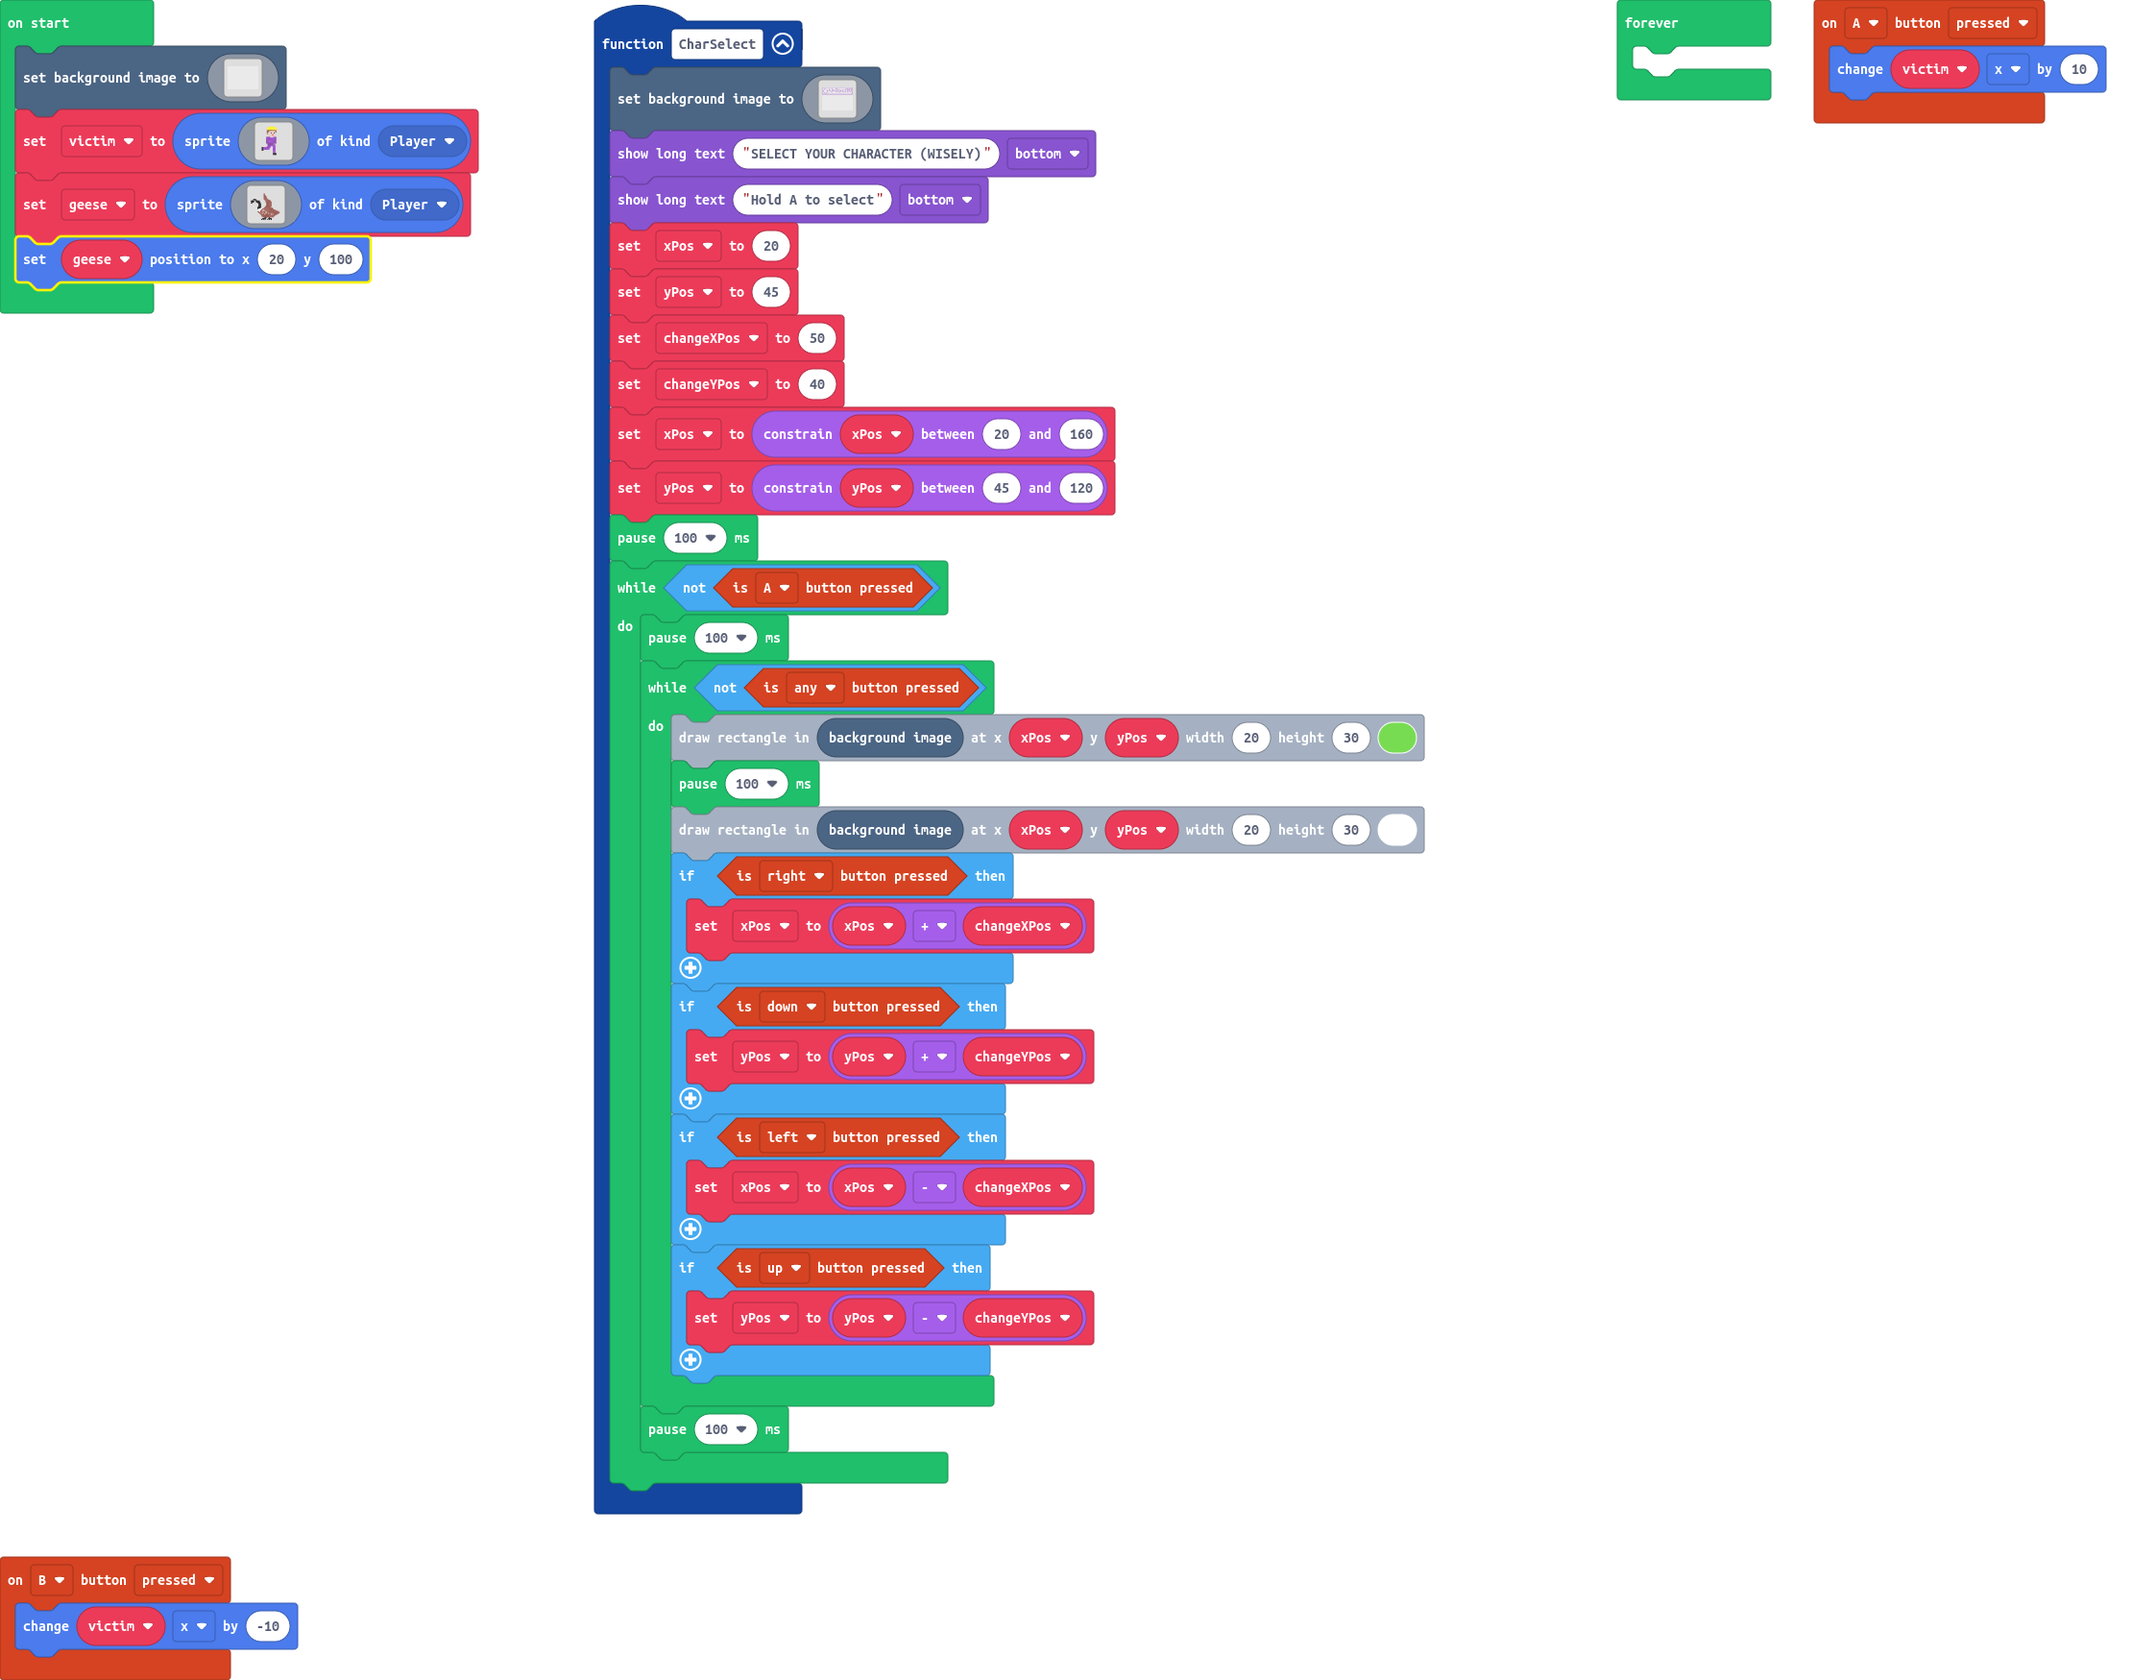
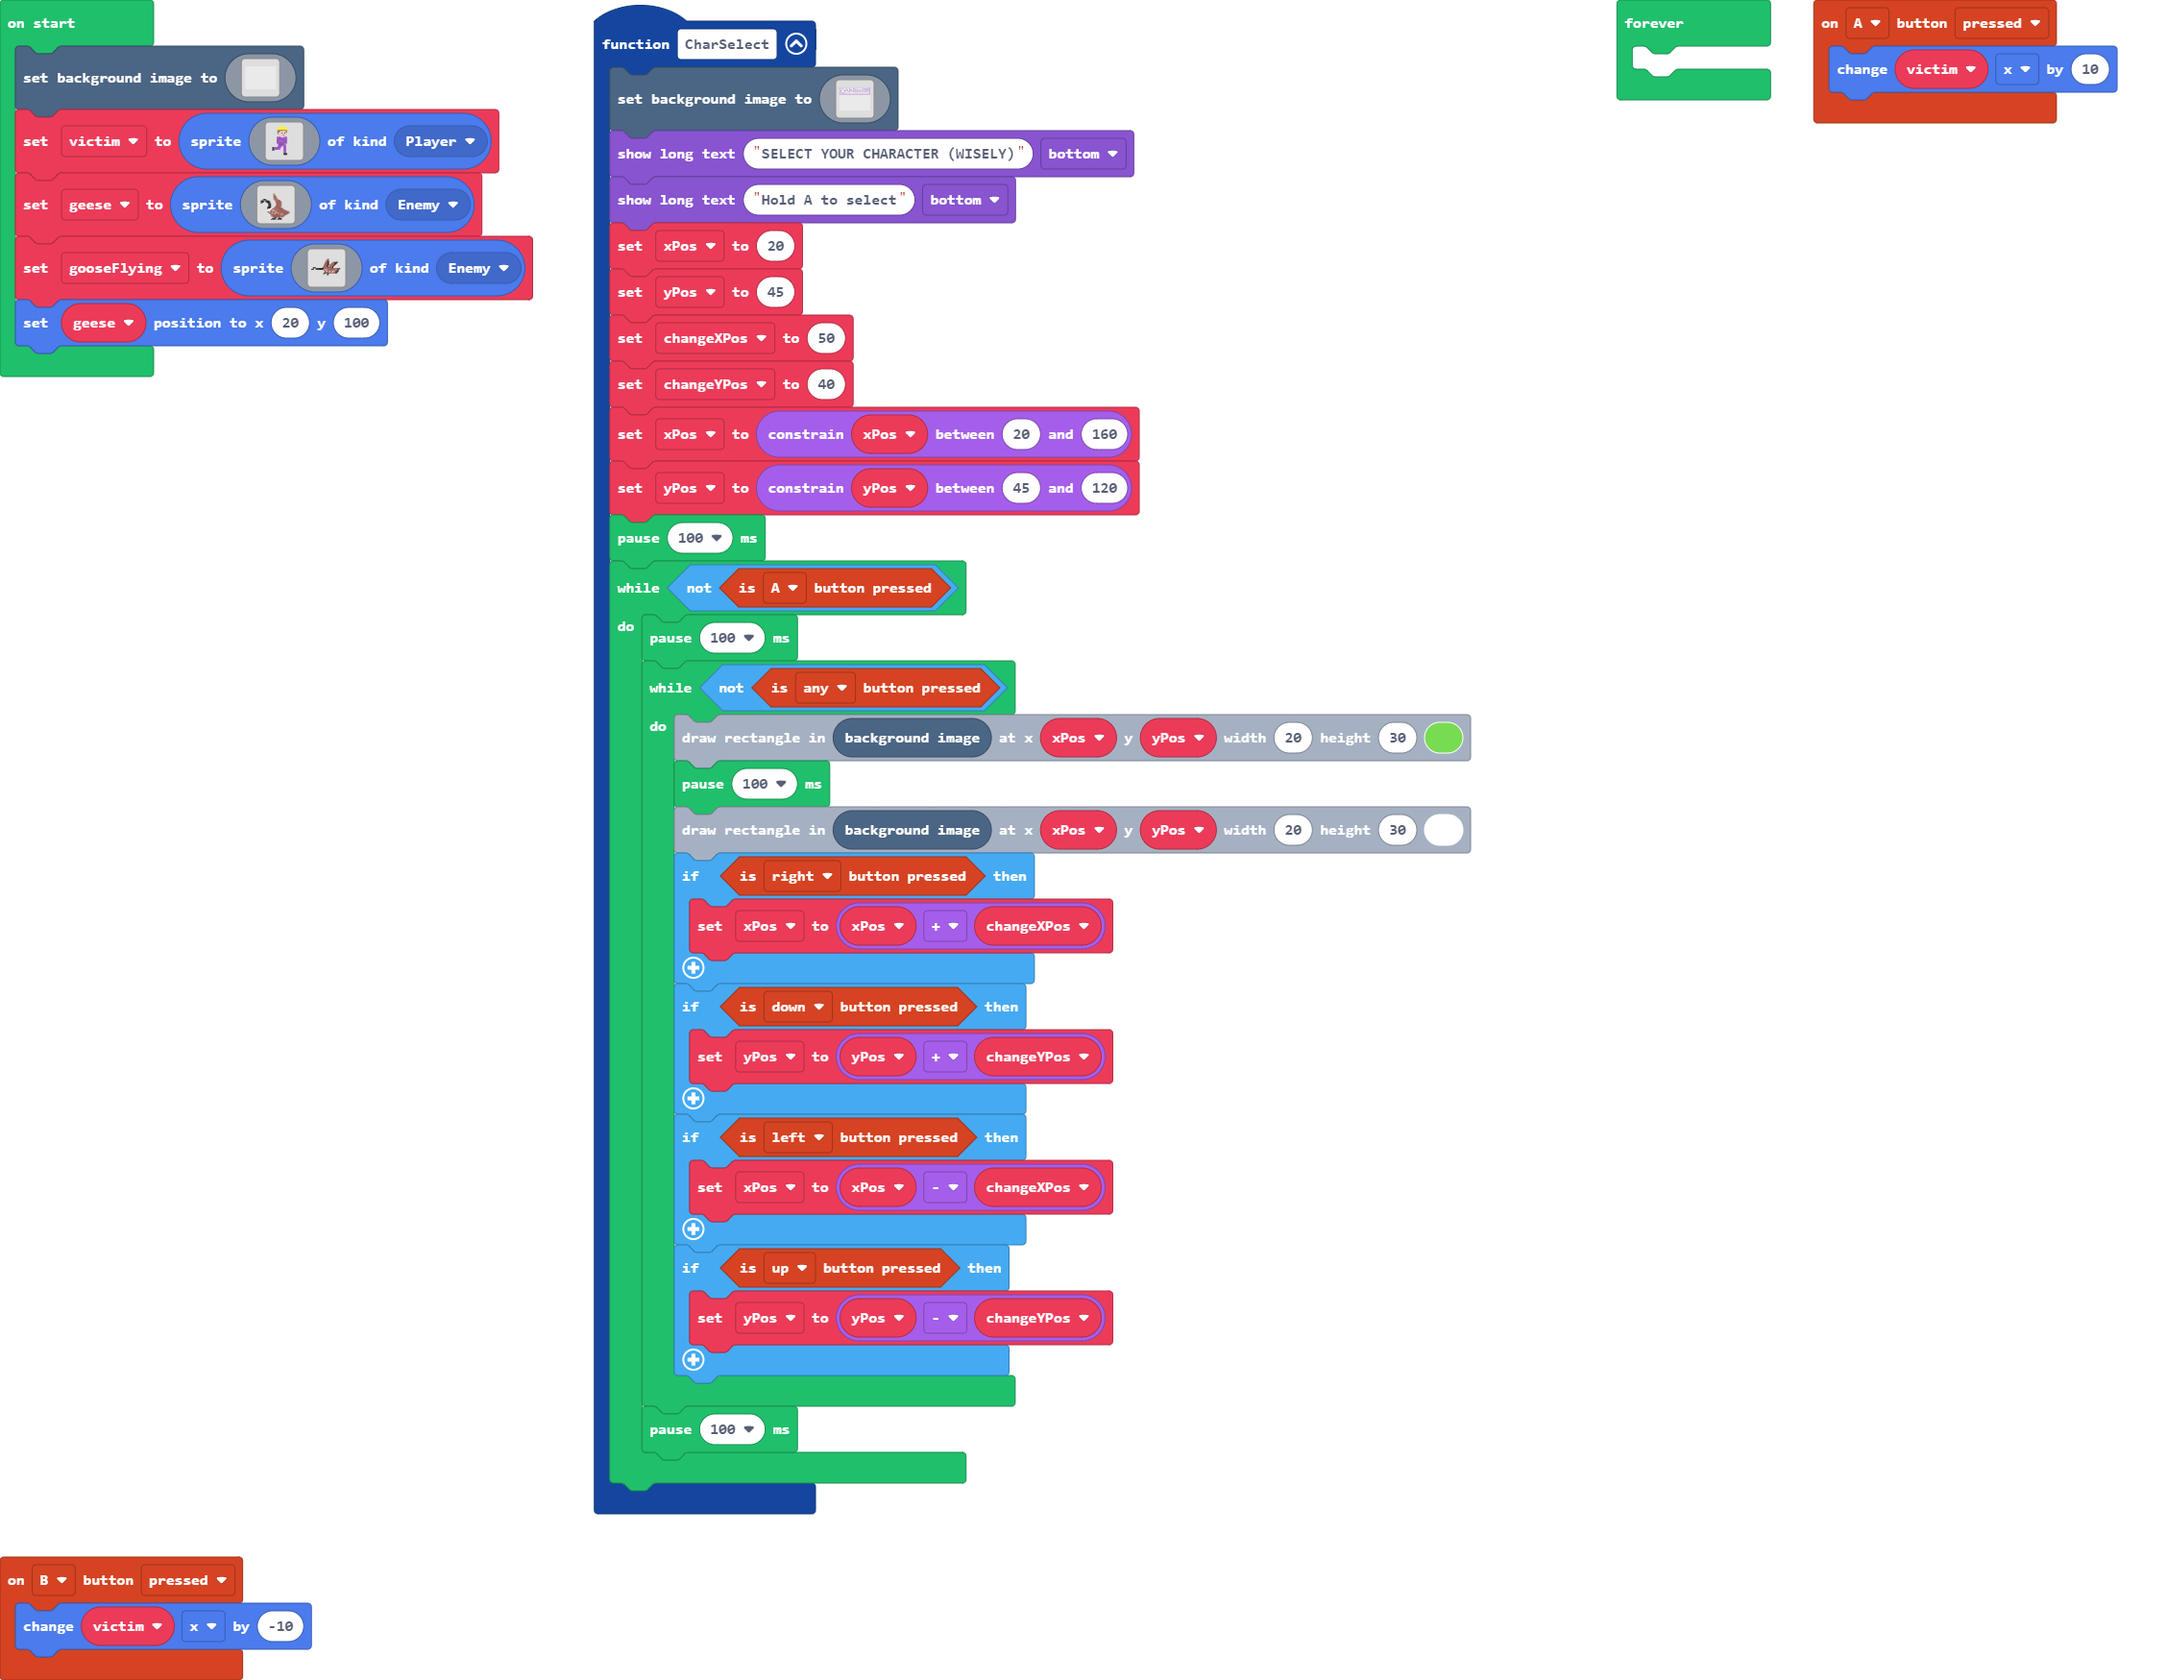
Update main.blocks, main.ts, main.py

diff --git a/main.ts b/main.ts
@@ -359,7 +359,29 @@ let geese = sprites.create(img`
     ................ff...f............
     .............ffff...ffff..........
     ............f.f.f..f.f.f..........
-    `, SpriteKind.Player)
+    `, SpriteKind.Enemy)
+let gooseFlying = sprites.create(img`
+    ...................e...............
+    ..................ee...............
+    .................eee...............
+    .................eef...............
+    ................eeef.....eeeef.....
+    ................eeef...eeeeff......
+    ...............eeeef..eeeeef.......
+    ...............eeeef.eeeeef........
+    ..............eeeef..eeeef.........
+    ..............eeeef.eeeef..........
+    ..fff........feeeeefeeeef..........
+    ..f21fffffffffeeeeeeeeeeeeeeeefef..
+    fff11fffffffff1ee1eeeeeeeeeeeeef...
+    ..............ee1eeeeeeeeeee1ff....
+    ...............eee1ee1ee1e1efef....
+    ................e1ee1ee1e1eeef.....
+    ...............ffeeeeeeeeeeef......
+    ..............f....f...............
+    ..................f................
+    ...................................
+    `, SpriteKind.Enemy)
 geese.setPosition(20, 100)
 forever(function () {
 	

diff --git a/main.py b/main.py
@@ -1,11 +1,10 @@
 def on_b_pressed():
-    mySprite.x += -10
+    victim.x += -10
 controller.B.on_event(ControllerButtonEvent.PRESSED, on_b_pressed)
 
 def on_a_pressed():
-    mySprite.x += 10
+    victim.x += 10
 controller.A.on_event(ControllerButtonEvent.PRESSED, on_a_pressed)
-
 
 def CharSelect():
     global xPos, yPos, changeXPos, changeYPos
@@ -159,7 +158,7 @@ changeYPos = 0
 changeXPos = 0
 yPos = 0
 xPos = 0
-mySprite: Sprite = None
+victim: Sprite = None
 scene.set_background_image(img("""
     1111111111111111111111111111111111111111111111111111111111111111111111111111111111111111111111111111111111111111111111111111111111111111111111111111111111111111
         1111111111111111111111111111111111111111111111111111111111111111111111111111111111111111111111111111111111111111111111111111111111111111111111111111111111111111
@@ -282,7 +281,7 @@ scene.set_background_image(img("""
         1111111111111111111111111111111111111111111111111111111111111111111111111111111111111111111111111111111111111111111111111111111111111111111111111111111111111111
         1111111111111111111111111111111111111111111111111111111111111111111111111111111111111111111111111111111111111111111111111111111111111111111111111111111111111111
 """))
-mySprite = sprites.create(img("""
+victim = sprites.create(img("""
         ...................................
             ............55555555...............
             ...........555555555...............
@@ -321,7 +320,7 @@ mySprite = sprites.create(img("""
             ...................................
     """),
     SpriteKind.player)
-mySprite2 = sprites.create(img("""
+geese = sprites.create(img("""
         ..................................
             ..................................
             ..................................
@@ -358,8 +357,31 @@ mySprite2 = sprites.create(img("""
             .............ffff...ffff..........
             ............f.f.f..f.f.f..........
     """),
-    SpriteKind.player)
-mySprite2.set_position(20, 100)
+    SpriteKind.enemy)
+gooseFlying = sprites.create(img("""
+        ...................e...............
+            ..................ee...............
+            .................eee...............
+            .................eef...............
+            ................eeef.....eeeef.....
+            ................eeef...eeeeff......
+            ...............eeeef..eeeeef.......
+            ...............eeeef.eeeeef........
+            ..............eeeef..eeeef.........
+            ..............eeeef.eeeef..........
+            ..fff........feeeeefeeeef..........
+            ..f21fffffffffeeeeeeeeeeeeeeeefef..
+            fff11fffffffff1ee1eeeeeeeeeeeeef...
+            ..............ee1eeeeeeeeeee1ff....
+            ...............eee1ee1ee1e1efef....
+            ................e1ee1ee1e1eeef.....
+            ...............ffeeeeeeeeeeef......
+            ..............f....f...............
+            ..................f................
+            ...................................
+    """),
+    SpriteKind.enemy)
+geese.set_position(20, 100)
 
 def on_forever():
     pass
